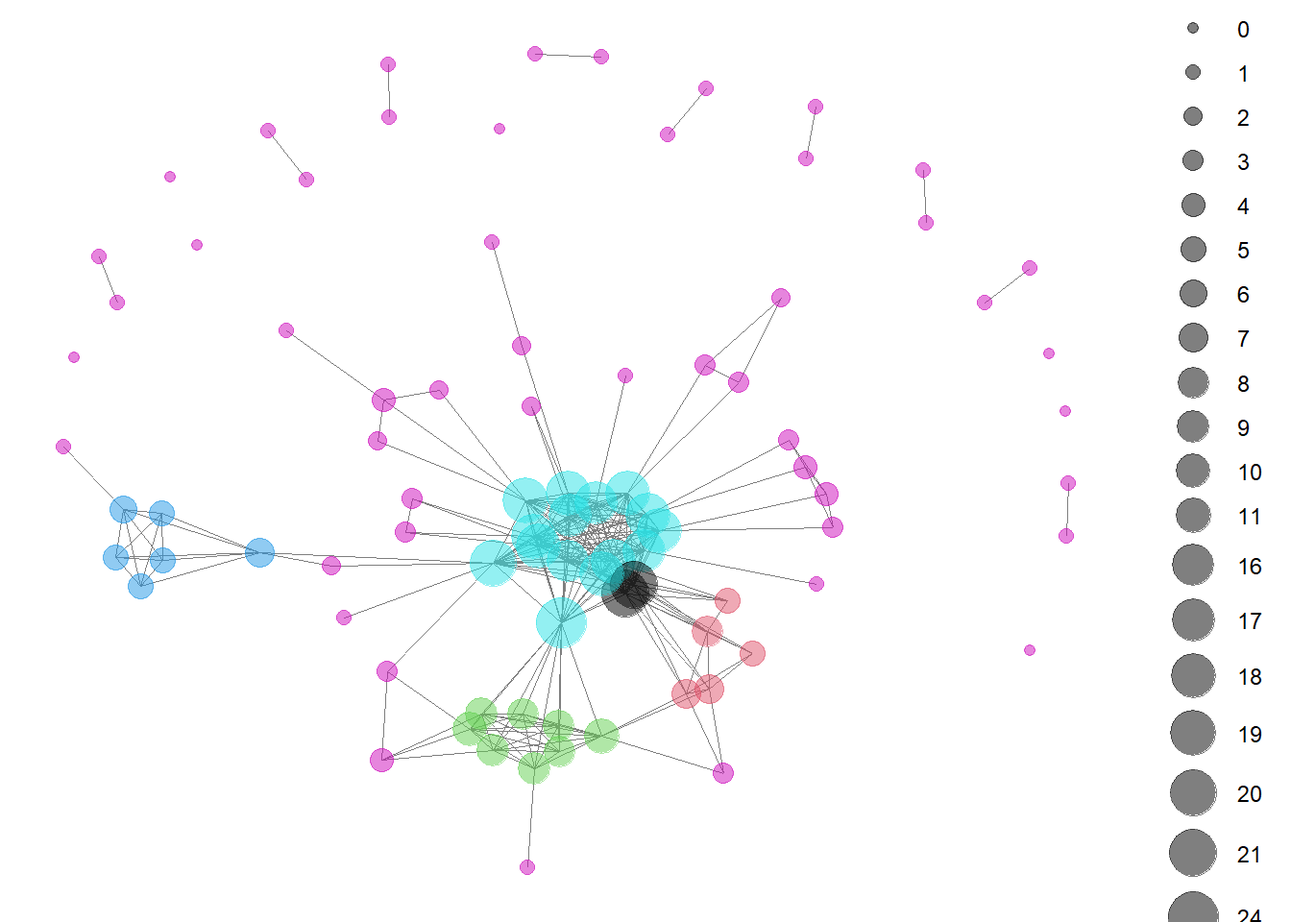
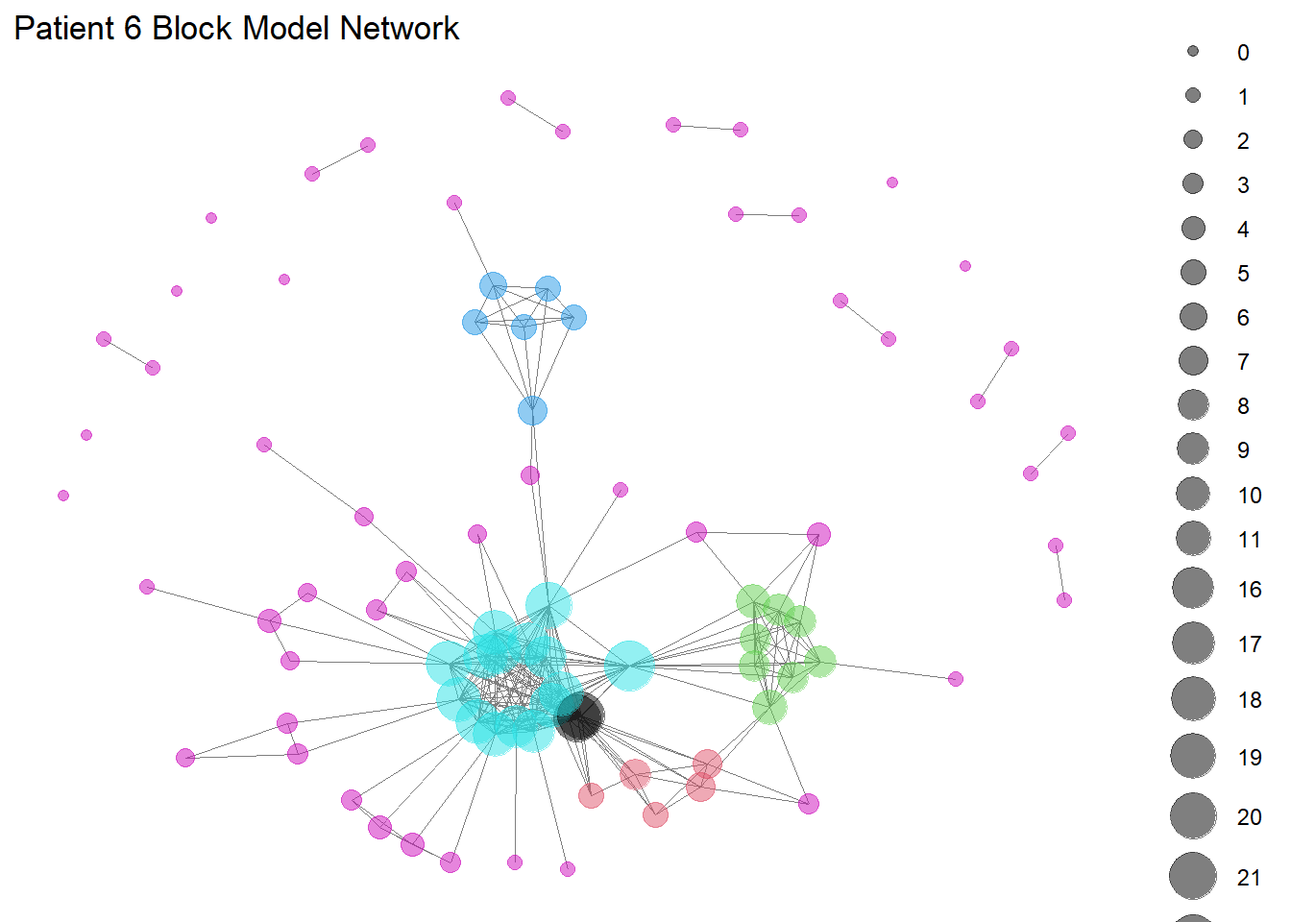
post 3 updates

diff --git a/docs/posts/Post_Three - Copy/post_3_drug.html b/docs/posts/Post_Three - Copy/post_3_drug.html
@@ -7,7 +7,7 @@
 <meta name="viewport" content="width=device-width, initial-scale=1.0, user-scalable=yes">
 
 <meta name="author" content="Sue-Ellen Duffy">
-<meta name="dcterms.date" content="2024-05-03">
+<meta name="dcterms.date" content="2024-04-27">
 
 <title>Social_Networks_Blog_Space - POST 3</title>
 <style>
@@ -142,7 +142,7 @@ pre > code.sourceCode > span > a:first-child::before { text-decoration: underlin
 <header id="title-block-header" class="quarto-title-block default page-columns page-full">
   <div class="quarto-title-banner page-columns page-full">
     <div class="quarto-title column-body">
-      <h1 class="title">Network Block Modeling - Patients</h1>
+      <h1 class="title">POST 3</h1>
             <p class="subtitle lead">Network Block Modeling - Patients</p>
                                 <div class="quarto-categories">
                 <div class="quarto-category">code</div>
@@ -165,7 +165,7 @@ pre > code.sourceCode > span > a:first-child::before { text-decoration: underlin
       <div>
       <div class="quarto-title-meta-heading">Published</div>
       <div class="quarto-title-meta-contents">
-        <p class="date">May 3, 2024</p>
+        <p class="date">April 27, 2024</p>
       </div>
     </div>
     
@@ -335,36 +335,31 @@ Block 6       0 0.00800000 0.01500000 0.006666667 0.02800000 0.018775510</code><
 </div>
 </div>
 <div class="cell">
-<div class="sourceCode cell-code" id="cb19"><pre class="sourceCode r code-with-copy"><code class="sourceCode r"><span id="cb19-1"><a href="#cb19-1" aria-hidden="true" tabindex="-1"></a>pat_attr<span class="sc">$</span>block <span class="ot">&lt;-</span> pat_blk_mod<span class="sc">$</span>block.membership</span>
-<span id="cb19-2"><a href="#cb19-2" aria-hidden="true" tabindex="-1"></a><span class="fu">head</span>(pat_attr)</span></code><button title="Copy to Clipboard" class="code-copy-button"><i class="bi"></i></button></pre></div>
-<div class="cell-output cell-output-stdout">
-<pre><code># A tibble: 6 × 9
-  NAME                   GENDER RACE  MARITAL  CITY     INCOME   AGE type  block
-  &lt;chr&gt;                  &lt;chr&gt;  &lt;chr&gt; &lt;chr&gt;    &lt;chr&gt;     &lt;dbl&gt; &lt;dbl&gt; &lt;chr&gt; &lt;int&gt;
-1 Annice210 Gleason633   Female white Married  brookli…   1565    37 PATI…     1
-2 Julianne852 Barrows492 Female white Widowed  hamilton  39537    65 PATI…     1
-3 Alesha810 Heaney114    Female white Divorced framing… 114339    46 PATI…     2
-4 Sandee884 Rice937      Female white &lt;NA&gt;     taunton   96256    26 PATI…     2
-5 Mia349 Runte676        Female white Divorced chelmsf…  71238    44 PATI…     2
-6 Damian46 Dach178       Male   white &lt;NA&gt;     swansea   74155    26 PATI…     2</code></pre>
-</div>
-<div class="sourceCode cell-code" id="cb21"><pre class="sourceCode r code-with-copy"><code class="sourceCode r"><span id="cb21-1"><a href="#cb21-1" aria-hidden="true" tabindex="-1"></a><span class="co">#write.csv(pat_attr, "pat_attr.csv")</span></span></code><button title="Copy to Clipboard" class="code-copy-button"><i class="bi"></i></button></pre></div>
+<div class="sourceCode cell-code" id="cb19"><pre class="sourceCode r code-with-copy"><code class="sourceCode r"><span id="cb19-1"><a href="#cb19-1" aria-hidden="true" tabindex="-1"></a>block_df <span class="ot">&lt;-</span> <span class="fu">data.frame</span>(pat_blk_mod<span class="sc">$</span>plabels, pat_blk_mod<span class="sc">$</span>block.membership)</span>
+<span id="cb19-2"><a href="#cb19-2" aria-hidden="true" tabindex="-1"></a></span>
+<span id="cb19-3"><a href="#cb19-3" aria-hidden="true" tabindex="-1"></a>pat_attr <span class="ot">&lt;-</span> pat_attr <span class="sc">%&gt;%</span></span>
+<span id="cb19-4"><a href="#cb19-4" aria-hidden="true" tabindex="-1"></a><span class="fu">left_join</span>(block_df, <span class="at">by =</span> <span class="fu">c</span>(<span class="st">"NAME"</span> <span class="ot">=</span> <span class="st">"pat_blk_mod.plabels"</span> ))</span>
+<span id="cb19-5"><a href="#cb19-5" aria-hidden="true" tabindex="-1"></a></span>
+<span id="cb19-6"><a href="#cb19-6" aria-hidden="true" tabindex="-1"></a><span class="co">#write.csv(pat_attr, "pat_attr.csv")</span></span></code><button title="Copy to Clipboard" class="code-copy-button"><i class="bi"></i></button></pre></div>
 </div>
 <div class="cell">
-<div class="sourceCode cell-code" id="cb22"><pre class="sourceCode r code-with-copy"><code class="sourceCode r"><span id="cb22-1"><a href="#cb22-1" aria-hidden="true" tabindex="-1"></a><span class="fu">plot.block</span>(pat_blk_mod, <span class="at">main =</span> <span class="st">"patient"</span>,</span>
-<span id="cb22-2"><a href="#cb22-2" aria-hidden="true" tabindex="-1"></a>           <span class="at">cex.lab =</span> .<span class="dv">000001</span>)</span></code><button title="Copy to Clipboard" class="code-copy-button"><i class="bi"></i></button></pre></div>
+<div class="sourceCode cell-code" id="cb20"><pre class="sourceCode r code-with-copy"><code class="sourceCode r"><span id="cb20-1"><a href="#cb20-1" aria-hidden="true" tabindex="-1"></a><span class="fu">plot.block</span>(pat_blk_mod, <span class="at">main =</span> <span class="st">"patient"</span>,</span>
+<span id="cb20-2"><a href="#cb20-2" aria-hidden="true" tabindex="-1"></a>           <span class="at">cex.lab =</span> .<span class="dv">000001</span>)</span></code><button title="Copy to Clipboard" class="code-copy-button"><i class="bi"></i></button></pre></div>
 <div class="cell-output-display">
 <p><img src="post_3_drug_files/figure-html/unnamed-chunk-16-1.png" class="img-fluid" width="672"></p>
 </div>
 </div>
 <div class="cell">
-<div class="sourceCode cell-code" id="cb23"><pre class="sourceCode r code-with-copy"><code class="sourceCode r"><span id="cb23-1"><a href="#cb23-1" aria-hidden="true" tabindex="-1"></a><span class="co">#assign block membership to vertex attribute</span></span>
-<span id="cb23-2"><a href="#cb23-2" aria-hidden="true" tabindex="-1"></a>patient.stat<span class="sc">%v%</span><span class="st">"role"</span><span class="ot">&lt;-</span>pat_blk_mod<span class="sc">$</span>block.membership[<span class="fu">match</span>(patient.stat<span class="sc">%v%</span><span class="st">"vertex.names"</span>,pat_blk_mod<span class="sc">$</span>plabels)]</span>
-<span id="cb23-3"><a href="#cb23-3" aria-hidden="true" tabindex="-1"></a><span class="co">#plot network using "role" to color nodes</span></span>
-<span id="cb23-4"><a href="#cb23-4" aria-hidden="true" tabindex="-1"></a>GGally<span class="sc">::</span><span class="fu">ggnet2</span>(patient.stat,</span>
-<span id="cb23-5"><a href="#cb23-5" aria-hidden="true" tabindex="-1"></a>               <span class="at">node.color=</span><span class="st">"role"</span>, </span>
-<span id="cb23-6"><a href="#cb23-6" aria-hidden="true" tabindex="-1"></a>               <span class="at">node.size=</span>sna<span class="sc">::</span><span class="fu">degree</span>(patient.stat, <span class="at">gmode=</span><span class="st">"graph"</span>),</span>
-<span id="cb23-7"><a href="#cb23-7" aria-hidden="true" tabindex="-1"></a>               <span class="at">node.alpha =</span> .<span class="dv">5</span>)</span></code><button title="Copy to Clipboard" class="code-copy-button"><i class="bi"></i></button></pre></div>
+<div class="sourceCode cell-code" id="cb21"><pre class="sourceCode r code-with-copy"><code class="sourceCode r"><span id="cb21-1"><a href="#cb21-1" aria-hidden="true" tabindex="-1"></a><span class="fu">set.seed</span>(<span class="dv">1</span>)</span>
+<span id="cb21-2"><a href="#cb21-2" aria-hidden="true" tabindex="-1"></a><span class="co">#assign block membership to vertex attribute</span></span>
+<span id="cb21-3"><a href="#cb21-3" aria-hidden="true" tabindex="-1"></a>patient.stat<span class="sc">%v%</span><span class="st">"role"</span><span class="ot">&lt;-</span>pat_blk_mod<span class="sc">$</span>block.membership[<span class="fu">match</span>(patient.stat<span class="sc">%v%</span><span class="st">"vertex.names"</span>,pat_blk_mod<span class="sc">$</span>plabels)]</span>
+<span id="cb21-4"><a href="#cb21-4" aria-hidden="true" tabindex="-1"></a><span class="fu">set.seed</span>(<span class="dv">1</span>)</span>
+<span id="cb21-5"><a href="#cb21-5" aria-hidden="true" tabindex="-1"></a><span class="co">#plot network using "role" to color nodes</span></span>
+<span id="cb21-6"><a href="#cb21-6" aria-hidden="true" tabindex="-1"></a>GGally<span class="sc">::</span><span class="fu">ggnet2</span>(patient.stat,</span>
+<span id="cb21-7"><a href="#cb21-7" aria-hidden="true" tabindex="-1"></a>               <span class="at">node.color=</span><span class="st">"role"</span>, </span>
+<span id="cb21-8"><a href="#cb21-8" aria-hidden="true" tabindex="-1"></a>               <span class="at">node.size=</span>sna<span class="sc">::</span><span class="fu">degree</span>(patient.stat, <span class="at">gmode=</span><span class="st">"graph"</span>),</span>
+<span id="cb21-9"><a href="#cb21-9" aria-hidden="true" tabindex="-1"></a>               <span class="at">node.alpha =</span> .<span class="dv">5</span>)<span class="sc">+</span> <span class="fu">ggtitle</span>(</span>
+<span id="cb21-10"><a href="#cb21-10" aria-hidden="true" tabindex="-1"></a>               <span class="st">"Patient 6 Block Model Network"</span>)</span></code><button title="Copy to Clipboard" class="code-copy-button"><i class="bi"></i></button></pre></div>
 <div class="cell-output cell-output-stderr">
 <pre><code>Registered S3 method overwritten by 'GGally':
   method from   
@@ -374,64 +369,116 @@ Block 6       0 0.00800000 0.01500000 0.006666667 0.02800000 0.018775510</code><
 <p><img src="post_3_drug_files/figure-html/unnamed-chunk-17-1.png" class="img-fluid" width="672"></p>
 </div>
 </div>
+<section id="attempt-to-recreate-the-above-block-model-network" class="level2">
+<h2 class="anchored" data-anchor-id="attempt-to-recreate-the-above-block-model-network">Attempt to recreate the above block model network</h2>
 <div class="cell">
-<div class="sourceCode cell-code" id="cb25"><pre class="sourceCode r code-with-copy"><code class="sourceCode r"><span id="cb25-1"><a href="#cb25-1" aria-hidden="true" tabindex="-1"></a><span class="fu">library</span>(ade4)</span></code><button title="Copy to Clipboard" class="code-copy-button"><i class="bi"></i></button></pre></div>
+<div class="sourceCode cell-code" id="cb23"><pre class="sourceCode r code-with-copy"><code class="sourceCode r"><span id="cb23-1"><a href="#cb23-1" aria-hidden="true" tabindex="-1"></a>attributes <span class="ot">&lt;-</span> <span class="fu">dumpAttr</span>(patient.stat)</span>
+<span id="cb23-2"><a href="#cb23-2" aria-hidden="true" tabindex="-1"></a><span class="co"># Extracting roles and vertex names</span></span>
+<span id="cb23-3"><a href="#cb23-3" aria-hidden="true" tabindex="-1"></a>roles <span class="ot">&lt;-</span> attributes<span class="sc">$</span>vertex<span class="sc">$</span>role</span>
+<span id="cb23-4"><a href="#cb23-4" aria-hidden="true" tabindex="-1"></a>vertex_names <span class="ot">&lt;-</span> attributes<span class="sc">$</span>vertex<span class="sc">$</span>vertex.names</span>
+<span id="cb23-5"><a href="#cb23-5" aria-hidden="true" tabindex="-1"></a></span>
+<span id="cb23-6"><a href="#cb23-6" aria-hidden="true" tabindex="-1"></a><span class="co"># Creating a dataframe</span></span>
+<span id="cb23-7"><a href="#cb23-7" aria-hidden="true" tabindex="-1"></a>role_vertex_df <span class="ot">&lt;-</span> <span class="fu">data.frame</span>(<span class="at">vertex.names =</span> vertex_names, <span class="at">role =</span> roles)</span>
+<span id="cb23-8"><a href="#cb23-8" aria-hidden="true" tabindex="-1"></a></span>
+<span id="cb23-9"><a href="#cb23-9" aria-hidden="true" tabindex="-1"></a><span class="co"># Displaying the first few rows of the dataframe</span></span>
+<span id="cb23-10"><a href="#cb23-10" aria-hidden="true" tabindex="-1"></a></span>
+<span id="cb23-11"><a href="#cb23-11" aria-hidden="true" tabindex="-1"></a><span class="fu">head</span>(role_vertex_df <span class="sc">%&gt;%</span></span>
+<span id="cb23-12"><a href="#cb23-12" aria-hidden="true" tabindex="-1"></a>  <span class="fu">arrange</span>(<span class="fu">desc</span>(vertex.names)))</span></code><button title="Copy to Clipboard" class="code-copy-button"><i class="bi"></i></button></pre></div>
+<div class="cell-output cell-output-stdout">
+<pre><code>           vertex.names role
+1  Wilfred787 Nienow652    6
+2   Wilburn655 Sipes176    2
+3 Tyler508 Ankunding277    6
+4     Troy560 Kohler843    6
+5    Tommy814 Miller503    6
+6   Tomika243 Walker122    4</code></pre>
+</div>
+<div class="sourceCode cell-code" id="cb25"><pre class="sourceCode r code-with-copy"><code class="sourceCode r"><span id="cb25-1"><a href="#cb25-1" aria-hidden="true" tabindex="-1"></a><span class="fu">head</span>(pat_attr <span class="sc">%&gt;%</span></span>
+<span id="cb25-2"><a href="#cb25-2" aria-hidden="true" tabindex="-1"></a>  <span class="fu">arrange</span>(<span class="fu">desc</span>(NAME)))</span></code><button title="Copy to Clipboard" class="code-copy-button"><i class="bi"></i></button></pre></div>
+<div class="cell-output cell-output-stdout">
+<pre><code># A tibble: 6 × 9
+  NAME      GENDER RACE  MARITAL CITY  INCOME   AGE type  pat_blk_mod.block.me…¹
+  &lt;chr&gt;     &lt;chr&gt;  &lt;chr&gt; &lt;chr&gt;   &lt;chr&gt;  &lt;dbl&gt; &lt;dbl&gt; &lt;chr&gt;                  &lt;int&gt;
+1 Wilfred7… Male   white &lt;NA&gt;    sali… 174409    19 PATI…                      6
+2 Wilburn6… Male   white Married yarm…  89071    28 PATI…                      2
+3 Tyler508… Male   white Single  nati…  25378    51 PATI…                      6
+4 Troy560 … Female white Single  west…  47288    31 PATI…                      6
+5 Tommy814… Male   white Married wake… 734792    83 PATI…                      6
+6 Tomika24… Female asian Married newt…  28174    61 PATI…                      4
+# ℹ abbreviated name: ¹pat_blk_mod.block.membership</code></pre>
+</div>
+</div>
+<div class="cell">
+<div class="sourceCode cell-code" id="cb27"><pre class="sourceCode r code-with-copy"><code class="sourceCode r"><span id="cb27-1"><a href="#cb27-1" aria-hidden="true" tabindex="-1"></a><span class="fu">set.seed</span>(<span class="dv">1</span>)</span>
+<span id="cb27-2"><a href="#cb27-2" aria-hidden="true" tabindex="-1"></a><span class="co">#plot network using "role" to color nodes</span></span>
+<span id="cb27-3"><a href="#cb27-3" aria-hidden="true" tabindex="-1"></a>GGally<span class="sc">::</span><span class="fu">ggnet2</span>(patient.stat,</span>
+<span id="cb27-4"><a href="#cb27-4" aria-hidden="true" tabindex="-1"></a>               <span class="at">node.color=</span> pat_attr<span class="sc">$</span>pat_blk_mod.block.membership, </span>
+<span id="cb27-5"><a href="#cb27-5" aria-hidden="true" tabindex="-1"></a>               <span class="at">node.size=</span>sna<span class="sc">::</span><span class="fu">degree</span>(patient.stat, <span class="at">gmode=</span><span class="st">"graph"</span>),</span>
+<span id="cb27-6"><a href="#cb27-6" aria-hidden="true" tabindex="-1"></a>               <span class="at">node.alpha =</span> .<span class="dv">5</span>) <span class="sc">+</span> <span class="fu">ggtitle</span>(</span>
+<span id="cb27-7"><a href="#cb27-7" aria-hidden="true" tabindex="-1"></a>               <span class="st">"Patient 6 Block Model Network"</span>)</span></code><button title="Copy to Clipboard" class="code-copy-button"><i class="bi"></i></button></pre></div>
+<div class="cell-output-display">
+<p><img src="post_3_drug_files/figure-html/unnamed-chunk-19-1.png" class="img-fluid" width="672"></p>
+</div>
+</div>
+<div class="cell">
+<div class="sourceCode cell-code" id="cb28"><pre class="sourceCode r code-with-copy"><code class="sourceCode r"><span id="cb28-1"><a href="#cb28-1" aria-hidden="true" tabindex="-1"></a><span class="fu">library</span>(ade4)</span></code><button title="Copy to Clipboard" class="code-copy-button"><i class="bi"></i></button></pre></div>
 <div class="cell-output cell-output-stderr">
 <pre><code>Warning: package 'ade4' was built under R version 4.3.3</code></pre>
 </div>
 </div>
 <div class="cell">
-<div class="sourceCode cell-code" id="cb27"><pre class="sourceCode r code-with-copy"><code class="sourceCode r"><span id="cb27-1"><a href="#cb27-1" aria-hidden="true" tabindex="-1"></a>encounters.adj.ig <span class="ot">&lt;-</span> igraph<span class="sc">::</span><span class="fu">as_biadjacency_matrix</span>(encounters.ig)</span>
-<span id="cb27-2"><a href="#cb27-2" aria-hidden="true" tabindex="-1"></a></span>
-<span id="cb27-3"><a href="#cb27-3" aria-hidden="true" tabindex="-1"></a>patients_jaccard <span class="ot">&lt;-</span> <span class="fu">dist.binary</span>(encounters.adj.ig,</span>
-<span id="cb27-4"><a href="#cb27-4" aria-hidden="true" tabindex="-1"></a>            <span class="at">method =</span> <span class="dv">1</span>, <span class="co"># method=1 Jaccard index</span></span>
-<span id="cb27-5"><a href="#cb27-5" aria-hidden="true" tabindex="-1"></a>            <span class="at">upper =</span> <span class="cn">TRUE</span>,</span>
-<span id="cb27-6"><a href="#cb27-6" aria-hidden="true" tabindex="-1"></a>            <span class="at">diag =</span> <span class="cn">FALSE</span>)</span>
-<span id="cb27-7"><a href="#cb27-7" aria-hidden="true" tabindex="-1"></a></span>
-<span id="cb27-8"><a href="#cb27-8" aria-hidden="true" tabindex="-1"></a>patients_jaccard <span class="ot">&lt;-</span> <span class="fu">as.matrix</span>(patients_jaccard)</span>
-<span id="cb27-9"><a href="#cb27-9" aria-hidden="true" tabindex="-1"></a><span class="fu">diag</span>(patients_jaccard) <span class="ot">&lt;-</span> <span class="dv">0</span></span></code><button title="Copy to Clipboard" class="code-copy-button"><i class="bi"></i></button></pre></div>
+<div class="sourceCode cell-code" id="cb30"><pre class="sourceCode r code-with-copy"><code class="sourceCode r"><span id="cb30-1"><a href="#cb30-1" aria-hidden="true" tabindex="-1"></a>encounters.adj.ig <span class="ot">&lt;-</span> igraph<span class="sc">::</span><span class="fu">as_biadjacency_matrix</span>(encounters.ig)</span>
+<span id="cb30-2"><a href="#cb30-2" aria-hidden="true" tabindex="-1"></a></span>
+<span id="cb30-3"><a href="#cb30-3" aria-hidden="true" tabindex="-1"></a>patients_jaccard <span class="ot">&lt;-</span> <span class="fu">dist.binary</span>(encounters.adj.ig,</span>
+<span id="cb30-4"><a href="#cb30-4" aria-hidden="true" tabindex="-1"></a>            <span class="at">method =</span> <span class="dv">1</span>, <span class="co"># method=1 Jaccard index</span></span>
+<span id="cb30-5"><a href="#cb30-5" aria-hidden="true" tabindex="-1"></a>            <span class="at">upper =</span> <span class="cn">TRUE</span>,</span>
+<span id="cb30-6"><a href="#cb30-6" aria-hidden="true" tabindex="-1"></a>            <span class="at">diag =</span> <span class="cn">FALSE</span>)</span>
+<span id="cb30-7"><a href="#cb30-7" aria-hidden="true" tabindex="-1"></a></span>
+<span id="cb30-8"><a href="#cb30-8" aria-hidden="true" tabindex="-1"></a>patients_jaccard <span class="ot">&lt;-</span> <span class="fu">as.matrix</span>(patients_jaccard)</span>
+<span id="cb30-9"><a href="#cb30-9" aria-hidden="true" tabindex="-1"></a><span class="fu">diag</span>(patients_jaccard) <span class="ot">&lt;-</span> <span class="dv">0</span></span></code><button title="Copy to Clipboard" class="code-copy-button"><i class="bi"></i></button></pre></div>
 </div>
 <div class="cell">
-<div class="sourceCode cell-code" id="cb28"><pre class="sourceCode r code-with-copy"><code class="sourceCode r"><span id="cb28-1"><a href="#cb28-1" aria-hidden="true" tabindex="-1"></a><span class="co">#binarize</span></span>
-<span id="cb28-2"><a href="#cb28-2" aria-hidden="true" tabindex="-1"></a>patients_jaccard_bi <span class="ot">&lt;-</span> <span class="fu">ifelse</span>(patients_jaccard <span class="sc">&gt;</span> <span class="fl">0.99</span>, <span class="dv">1</span>, <span class="dv">0</span>)</span></code><button title="Copy to Clipboard" class="code-copy-button"><i class="bi"></i></button></pre></div>
+<div class="sourceCode cell-code" id="cb31"><pre class="sourceCode r code-with-copy"><code class="sourceCode r"><span id="cb31-1"><a href="#cb31-1" aria-hidden="true" tabindex="-1"></a><span class="co">#binarize</span></span>
+<span id="cb31-2"><a href="#cb31-2" aria-hidden="true" tabindex="-1"></a>patients_jaccard_bi <span class="ot">&lt;-</span> <span class="fu">ifelse</span>(patients_jaccard <span class="sc">&gt;</span> <span class="fl">0.99</span>, <span class="dv">1</span>, <span class="dv">0</span>)</span></code><button title="Copy to Clipboard" class="code-copy-button"><i class="bi"></i></button></pre></div>
 </div>
 <div class="cell">
-<div class="sourceCode cell-code" id="cb29"><pre class="sourceCode r code-with-copy"><code class="sourceCode r"><span id="cb29-1"><a href="#cb29-1" aria-hidden="true" tabindex="-1"></a><span class="co">#create igraph object</span></span>
-<span id="cb29-2"><a href="#cb29-2" aria-hidden="true" tabindex="-1"></a>patients_jaccard.ig <span class="ot">&lt;-</span> <span class="fu">graph_from_adjacency_matrix</span>(patients_jaccard_bi, <span class="at">mode =</span> <span class="st">"undirected"</span>)</span>
-<span id="cb29-3"><a href="#cb29-3" aria-hidden="true" tabindex="-1"></a><span class="fu">summary</span>(patients_jaccard.ig)</span></code><button title="Copy to Clipboard" class="code-copy-button"><i class="bi"></i></button></pre></div>
+<div class="sourceCode cell-code" id="cb32"><pre class="sourceCode r code-with-copy"><code class="sourceCode r"><span id="cb32-1"><a href="#cb32-1" aria-hidden="true" tabindex="-1"></a><span class="co">#create igraph object</span></span>
+<span id="cb32-2"><a href="#cb32-2" aria-hidden="true" tabindex="-1"></a>patients_jaccard.ig <span class="ot">&lt;-</span> <span class="fu">graph_from_adjacency_matrix</span>(patients_jaccard_bi, <span class="at">mode =</span> <span class="st">"undirected"</span>)</span>
+<span id="cb32-3"><a href="#cb32-3" aria-hidden="true" tabindex="-1"></a><span class="fu">summary</span>(patients_jaccard.ig)</span></code><button title="Copy to Clipboard" class="code-copy-button"><i class="bi"></i></button></pre></div>
 <div class="cell-output cell-output-stdout">
-<pre><code>IGRAPH 905f5e9 UN-- 86 3390 -- 
+<pre><code>IGRAPH c7d922b UN-- 86 3390 -- 
 + attr: name (v/c)</code></pre>
 </div>
 </div>
 <div class="cell">
-<div class="sourceCode cell-code" id="cb31"><pre class="sourceCode r code-with-copy"><code class="sourceCode r"><span id="cb31-1"><a href="#cb31-1" aria-hidden="true" tabindex="-1"></a><span class="fu">plot</span>(patients_jaccard.ig,  <span class="at">edge.width =</span> <span class="fl">0.0002</span>, <span class="at">edge.color =</span> <span class="st">"lightgray"</span>,  <span class="at">vertex.size =</span> <span class="dv">2</span>, <span class="at">vertex.label =</span> <span class="cn">NA</span>)</span></code><button title="Copy to Clipboard" class="code-copy-button"><i class="bi"></i></button></pre></div>
+<div class="sourceCode cell-code" id="cb34"><pre class="sourceCode r code-with-copy"><code class="sourceCode r"><span id="cb34-1"><a href="#cb34-1" aria-hidden="true" tabindex="-1"></a><span class="fu">plot</span>(patients_jaccard.ig,  <span class="at">edge.width =</span> <span class="fl">0.0002</span>, <span class="at">edge.color =</span> <span class="st">"lightgray"</span>,  <span class="at">vertex.size =</span> <span class="dv">2</span>, <span class="at">vertex.label =</span> <span class="cn">NA</span>)</span></code><button title="Copy to Clipboard" class="code-copy-button"><i class="bi"></i></button></pre></div>
 <div class="cell-output-display">
-<p><img src="post_3_drug_files/figure-html/unnamed-chunk-22-1.png" class="img-fluid" width="672"></p>
+<p><img src="post_3_drug_files/figure-html/unnamed-chunk-24-1.png" class="img-fluid" width="672"></p>
 </div>
 </div>
 <div class="cell">
-<div class="sourceCode cell-code" id="cb32"><pre class="sourceCode r code-with-copy"><code class="sourceCode r"><span id="cb32-1"><a href="#cb32-1" aria-hidden="true" tabindex="-1"></a><span class="co"># Load the igraph package</span></span>
-<span id="cb32-2"><a href="#cb32-2" aria-hidden="true" tabindex="-1"></a><span class="fu">library</span>(igraph)</span>
-<span id="cb32-3"><a href="#cb32-3" aria-hidden="true" tabindex="-1"></a></span>
-<span id="cb32-4"><a href="#cb32-4" aria-hidden="true" tabindex="-1"></a><span class="co"># Create an igraph object from the blockmodel</span></span>
-<span id="cb32-5"><a href="#cb32-5" aria-hidden="true" tabindex="-1"></a>g <span class="ot">&lt;-</span> <span class="fu">graph_from_adjacency_matrix</span>(patient_matrix, <span class="at">mode =</span> <span class="st">"undirected"</span>, <span class="at">weighted =</span> <span class="cn">FALSE</span>)</span>
-<span id="cb32-6"><a href="#cb32-6" aria-hidden="true" tabindex="-1"></a></span>
-<span id="cb32-7"><a href="#cb32-7" aria-hidden="true" tabindex="-1"></a><span class="co"># Plot the graph without labels</span></span>
-<span id="cb32-8"><a href="#cb32-8" aria-hidden="true" tabindex="-1"></a><span class="fu">plot</span>(g,      </span>
-<span id="cb32-9"><a href="#cb32-9" aria-hidden="true" tabindex="-1"></a>     <span class="at">layout =</span> layout.fruchterman.reingold, </span>
-<span id="cb32-10"><a href="#cb32-10" aria-hidden="true" tabindex="-1"></a>     <span class="at">vertex.label.dist =</span> <span class="dv">2</span>, </span>
-<span id="cb32-11"><a href="#cb32-11" aria-hidden="true" tabindex="-1"></a>     <span class="at">vertex.size =</span> <span class="dv">2</span>, </span>
-<span id="cb32-12"><a href="#cb32-12" aria-hidden="true" tabindex="-1"></a>     <span class="at">edge.label =</span> <span class="cn">NA</span>,</span>
-<span id="cb32-13"><a href="#cb32-13" aria-hidden="true" tabindex="-1"></a>     <span class="at">vertex.label =</span> <span class="cn">NA</span>,</span>
-<span id="cb32-14"><a href="#cb32-14" aria-hidden="true" tabindex="-1"></a>     <span class="at">vertex.label.cex =</span> <span class="fl">0.2</span>, </span>
-<span id="cb32-15"><a href="#cb32-15" aria-hidden="true" tabindex="-1"></a>     <span class="at">main =</span> <span class="st">"Patient Network"</span>)</span></code><button title="Copy to Clipboard" class="code-copy-button"><i class="bi"></i></button></pre></div>
+<div class="sourceCode cell-code" id="cb35"><pre class="sourceCode r code-with-copy"><code class="sourceCode r"><span id="cb35-1"><a href="#cb35-1" aria-hidden="true" tabindex="-1"></a><span class="co"># Load the igraph package</span></span>
+<span id="cb35-2"><a href="#cb35-2" aria-hidden="true" tabindex="-1"></a><span class="fu">library</span>(igraph)</span>
+<span id="cb35-3"><a href="#cb35-3" aria-hidden="true" tabindex="-1"></a></span>
+<span id="cb35-4"><a href="#cb35-4" aria-hidden="true" tabindex="-1"></a><span class="co"># Create an igraph object from the blockmodel</span></span>
+<span id="cb35-5"><a href="#cb35-5" aria-hidden="true" tabindex="-1"></a>g <span class="ot">&lt;-</span> <span class="fu">graph_from_adjacency_matrix</span>(patient_matrix, <span class="at">mode =</span> <span class="st">"undirected"</span>, <span class="at">weighted =</span> <span class="cn">FALSE</span>)</span>
+<span id="cb35-6"><a href="#cb35-6" aria-hidden="true" tabindex="-1"></a></span>
+<span id="cb35-7"><a href="#cb35-7" aria-hidden="true" tabindex="-1"></a><span class="co"># Plot the graph without labels</span></span>
+<span id="cb35-8"><a href="#cb35-8" aria-hidden="true" tabindex="-1"></a><span class="fu">plot</span>(g,      </span>
+<span id="cb35-9"><a href="#cb35-9" aria-hidden="true" tabindex="-1"></a>     <span class="at">layout =</span> layout.fruchterman.reingold, </span>
+<span id="cb35-10"><a href="#cb35-10" aria-hidden="true" tabindex="-1"></a>     <span class="at">vertex.label.dist =</span> <span class="dv">2</span>, </span>
+<span id="cb35-11"><a href="#cb35-11" aria-hidden="true" tabindex="-1"></a>     <span class="at">vertex.size =</span> <span class="dv">2</span>, </span>
+<span id="cb35-12"><a href="#cb35-12" aria-hidden="true" tabindex="-1"></a>     <span class="at">edge.label =</span> <span class="cn">NA</span>,</span>
+<span id="cb35-13"><a href="#cb35-13" aria-hidden="true" tabindex="-1"></a>     <span class="at">vertex.label =</span> <span class="cn">NA</span>,</span>
+<span id="cb35-14"><a href="#cb35-14" aria-hidden="true" tabindex="-1"></a>     <span class="at">vertex.label.cex =</span> <span class="fl">0.2</span>, </span>
+<span id="cb35-15"><a href="#cb35-15" aria-hidden="true" tabindex="-1"></a>     <span class="at">main =</span> <span class="st">"Patient Network"</span>)</span></code><button title="Copy to Clipboard" class="code-copy-button"><i class="bi"></i></button></pre></div>
 <div class="cell-output-display">
-<p><img src="post_3_drug_files/figure-html/unnamed-chunk-23-1.png" class="img-fluid" width="672"></p>
+<p><img src="post_3_drug_files/figure-html/unnamed-chunk-25-1.png" class="img-fluid" width="672"></p>
 </div>
 </div>
 
 
+</section>
 </section>
 
 </main> <!-- /main -->

diff --git a/docs/index.html b/docs/index.html
@@ -252,7 +252,7 @@ Sue-Ellen Duffy
 </a>
 </div>
 </div>
-<div class="quarto-post image-right" data-index="2" data-categories="code,analysis,block_model" data-listing-date-sort="1714881600000" data-listing-file-modified-sort="1715034841961" data-listing-date-modified-sort="NaN" data-listing-reading-time-sort="6">
+<div class="quarto-post image-right" data-index="2" data-categories="code,analysis,block_model" data-listing-date-sort="1714881600000" data-listing-file-modified-sort="1715035807167" data-listing-date-modified-sort="NaN" data-listing-reading-time-sort="6">
 <div class="thumbnail">
 <p><a href="./posts/Post_Ten - Copy/post_10_drug.html"> <p class="card-img-top"><img src="posts\Post_Ten - Copy\post_10_drug_files\figure-html\unnamed-chunk-7-1.png"  class="thumbnail-image card-img"/></p> </a></p>
 </div>
@@ -504,7 +504,7 @@ Sue-Ellen Duffy
 </a>
 </div>
 </div>
-<div class="quarto-post image-right" data-index="8" data-categories="code,analysis,block_model" data-listing-date-sort="1714190400000" data-listing-file-modified-sort="1714955152446" data-listing-date-modified-sort="NaN" data-listing-reading-time-sort="4">
+<div class="quarto-post image-right" data-index="8" data-categories="code,analysis,block_model" data-listing-date-sort="1714190400000" data-listing-file-modified-sort="1715036564749" data-listing-date-modified-sort="NaN" data-listing-reading-time-sort="4">
 <div class="thumbnail">
 <p><a href="./posts/Post_Three - Copy/post_3_drug.html"> <p class="card-img-top"><img src="posts\Post_Three - Copy\post_3_drug_files\figure-html\unnamed-chunk-7-1.png"  class="thumbnail-image card-img"/></p> </a></p>
 </div>
